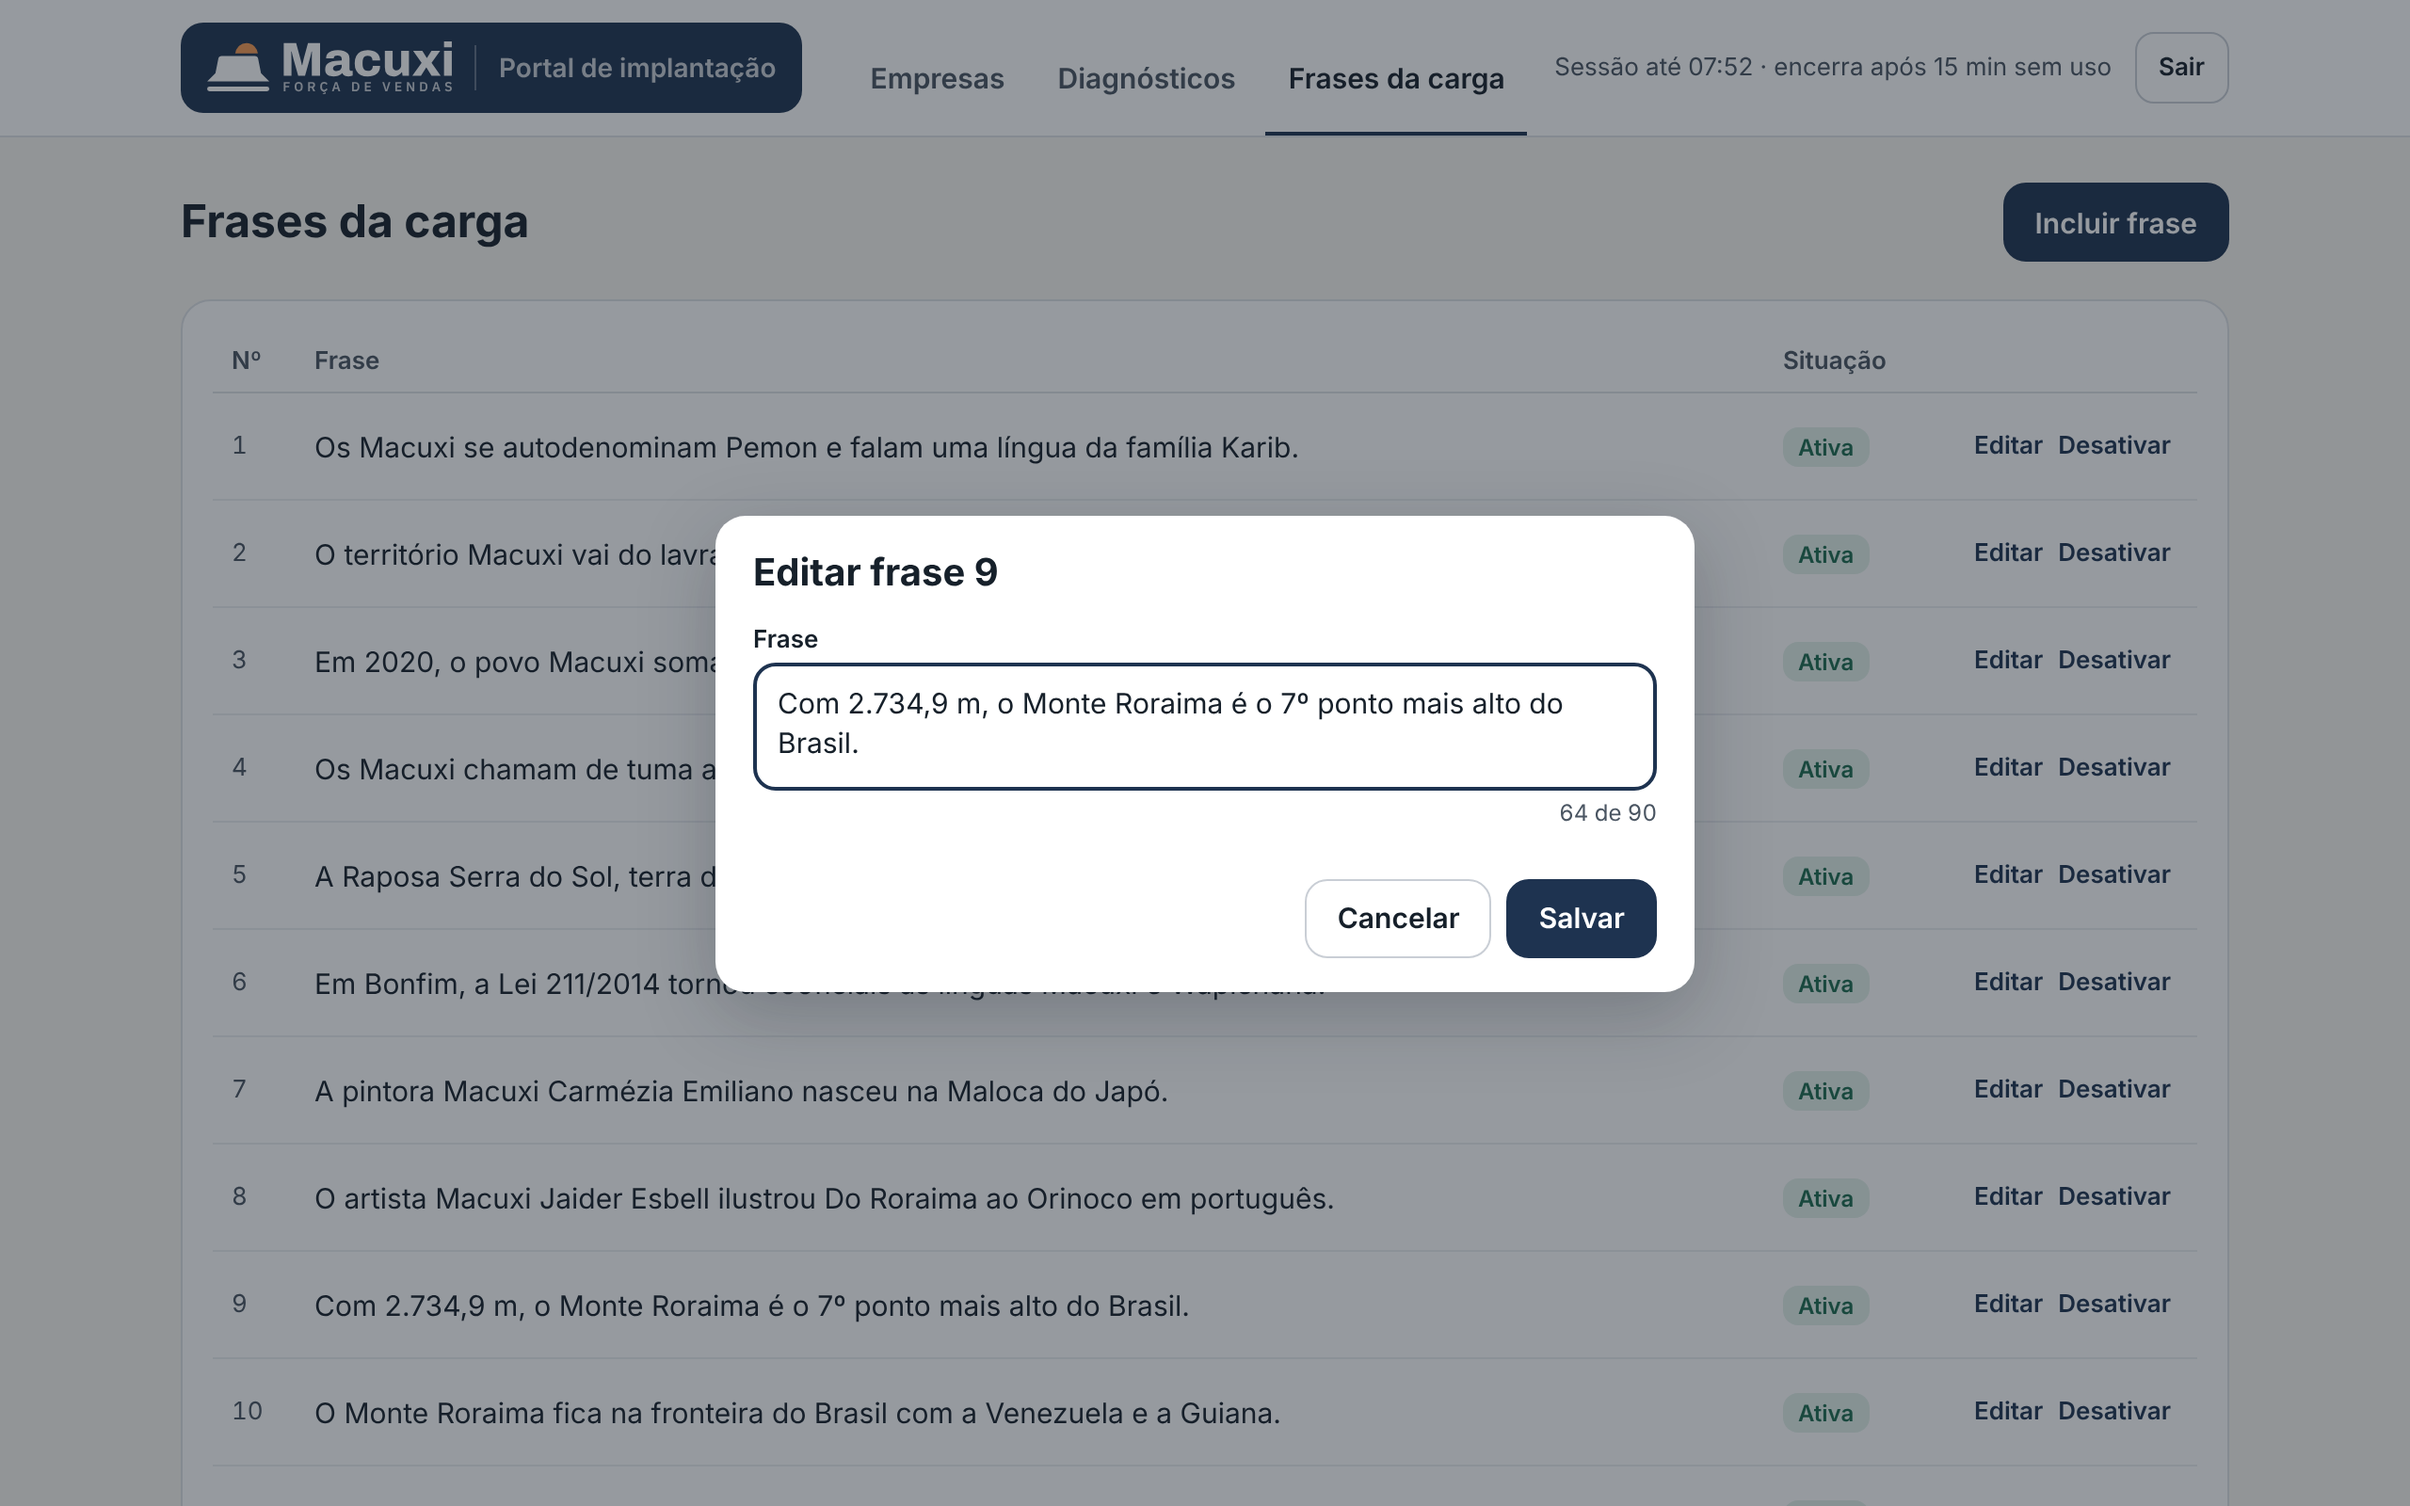
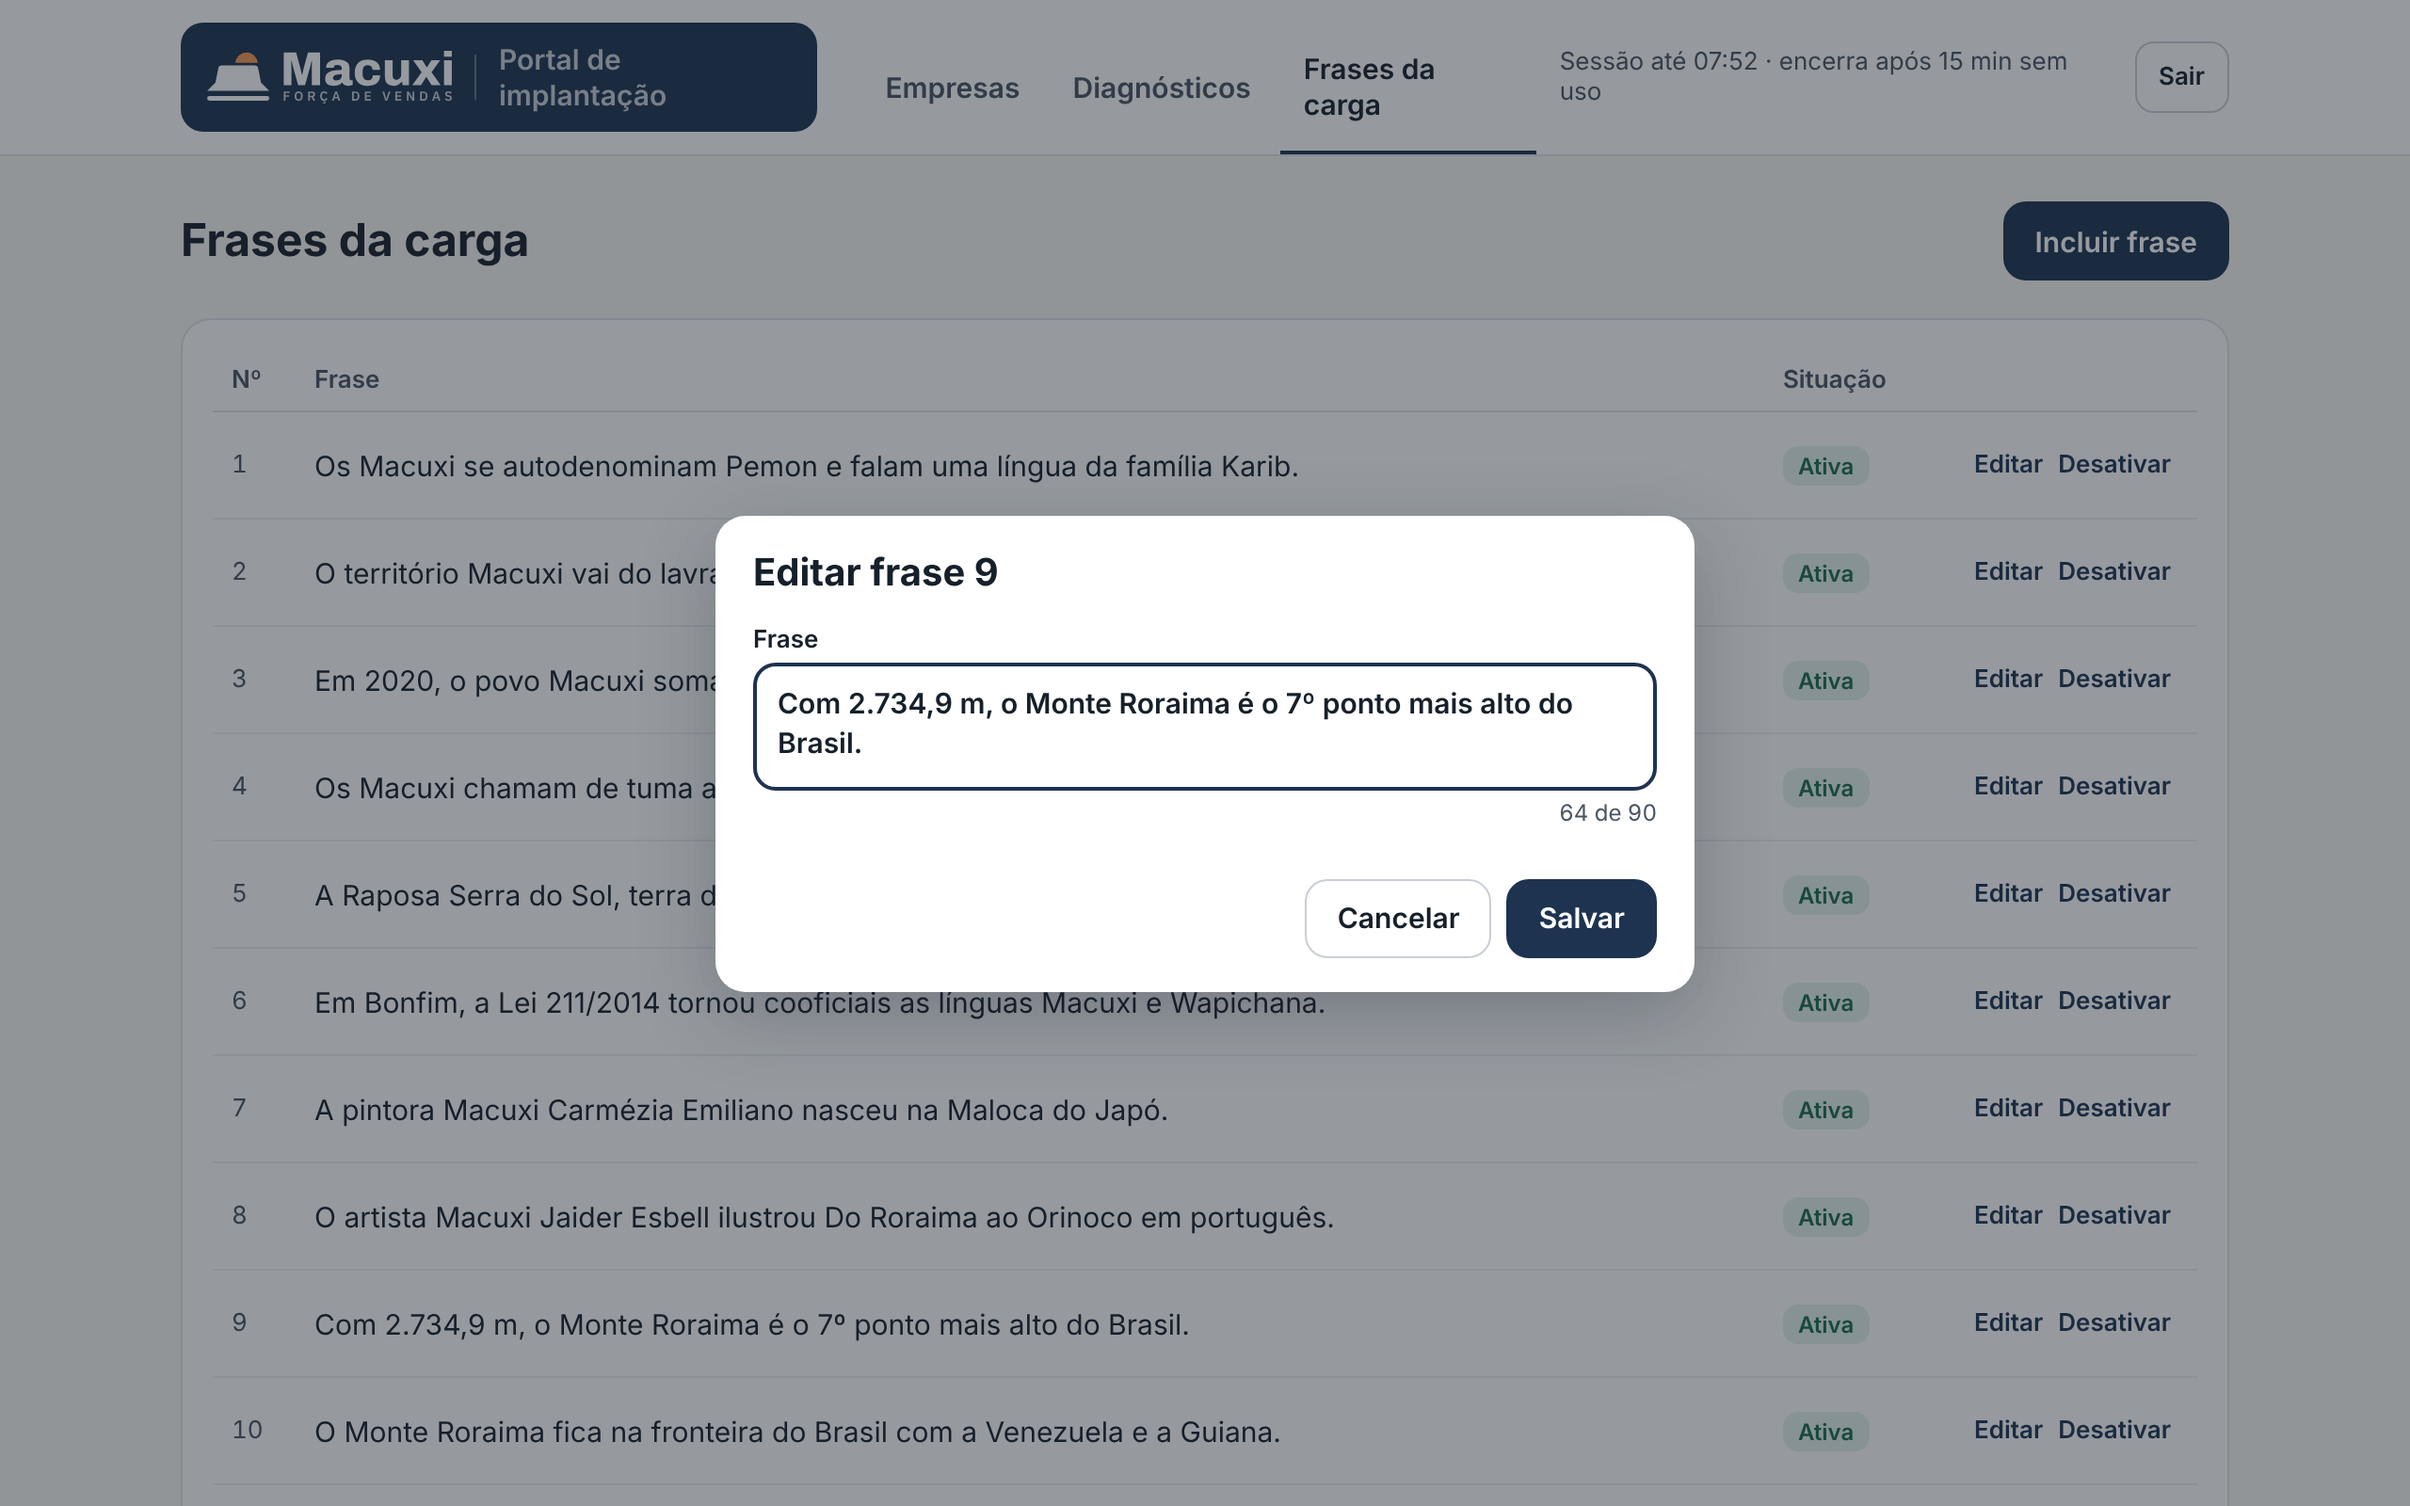
designer-ux — T-0181: simulação do portal com a pilha da fonte uma vez só e faixa em 15 (MC-0151, RD-1270)
Agente: designer-ux
Claude-Session: https://claude.ai/code/session_019xHEXpfo9hF3FwkT9jFWRk

diff --git a/docs/design/carga-aviso-frases/config-frases.html b/docs/design/carga-aviso-frases/config-frases.html
@@ -15,12 +15,12 @@ header { background: var(--surface); border-bottom: 1px solid var(--line); }
 .marca { display: flex; align-items: center; gap: 12px; background: var(--faixa); border-radius: 12px; padding: 10px 14px; }
 .marca img { width: 130px; display: block; }
 .marca .sep { width: 1px; height: 24px; background: rgba(201,206,213,.4); }
-.marca span { font-weight: 600; font-size: 14px; color: var(--faixaTexto); }
+.marca span { font-weight: 600; font-size: 15px; color: var(--faixaTexto); }
 nav { display: flex; gap: 4px; align-self: stretch; }
 nav a { display: flex; align-items: center; min-height: 44px; padding: 0 12px; margin-bottom: -12px; padding-bottom: 0; border-bottom: 2px solid transparent; font-weight: 600; color: var(--ink2); text-decoration: none; }
 nav a.ativo { border-color: var(--accent); color: var(--ink); }
 .dir { display: flex; align-items: center; gap: 12px; font-size: 13px; color: var(--ink2); }
-.btn { display: inline-flex; align-items: center; justify-content: center; gap: 6px; font: 600 15px system-ui, "Segoe UI", Roboto, -apple-system, sans-serif; height: 42px; border-radius: 12px; padding: 0 16px; border: 1px solid var(--field); background: var(--surface); color: var(--ink); white-space: nowrap; }
+.btn { display: inline-flex; align-items: center; justify-content: center; gap: 6px; font: inherit; font-weight: 600; font-size: 15px; height: 42px; border-radius: 12px; padding: 0 16px; border: 1px solid var(--field); background: var(--surface); color: var(--ink); white-space: nowrap; }
 .btn.sm { height: 38px; border-radius: 10px; padding: 0 12px; font-size: 13px; }
 .btn.prim { background: var(--accent); color: #fff; border-color: var(--accent); }
 .btn.link { border: 0; background: none; height: auto; padding: 0 4px; min-height: 44px; font-size: 13px; color: var(--accent); }
@@ -46,7 +46,7 @@ td.acoes { text-align: right; white-space: nowrap; width: 1%; }
 .dcorpo { padding: 16px 20px; display: flex; flex-direction: column; gap: 16px; }
 .dpe { padding: 12px 20px 18px; display: flex; justify-content: flex-end; gap: 8px; }
 label.rot { display: flex; flex-direction: column; gap: 4px; font-size: 13px; font-weight: 600; }
-textarea, select { font: 400 15px/21px system-ui, "Segoe UI", Roboto, -apple-system, sans-serif; color: var(--ink); border: 1px solid var(--field); border-radius: 12px; padding: 10px 12px; background: var(--surface); }
+textarea, select { font: inherit; font-size: 15px; line-height: 21px; color: var(--ink); border: 1px solid var(--field); border-radius: 12px; padding: 10px 12px; background: var(--surface); }
 textarea { height: 68px; resize: none; border: 2px solid var(--accent); padding: 9px 11px; }
 select { height: 44px; padding: 0 12px; }
 .ajuda { display: flex; justify-content: flex-end; font-size: 12px; font-weight: 400; color: var(--ink2); font-variant-numeric: tabular-nums; }

diff --git a/.coord/diario/designer-ux.md b/.coord/diario/designer-ux.md
@@ -124,3 +124,4 @@
 2026-11-15 — T-0181 (era T-0174) — ajuste R-20261115-080500: ícone lampada no kit mobile, MEDIDAS_FRASE_CARGA em entrada.ts (sem tokens de aviso), entrada-sync §2 com título 'Você sabia?' e aviso curto conforme a spec final 74f6160 (Olá→título 20, título→frase 6, aviso 13/18 textoClaro a 10 da barra; título em texto; lâmpada em preenchimento)
 2026-11-15 — T-0181 — kit3: aviso da carga nunca cortado (1 linha na escala 1,0, pode quebrar em 2 com fonte grande); `aviso.linhas` mantido porque o shell (linhasDoAviso) ainda lê; teste novo; T-0174 renomeado para T-0181
 2026-11-15 — T-0181 (#367) — pareceres: RD-1219 (saem os testes 2 a 4 de MEDIDAS_FRASE_CARGA), RD-1220 (sai a §5 'Na aprovação'; Fontes vira §5), RD-1221 e MC-0136 a MC-0139 (simulação na fonte do sistema, 14/20 e 16 no app, web 15, h1 24/700, selo 12, PNGs regerados); manter? do aviso: mantido (texto aprovado pelo dono do produto)
+2026-11-15 — T-0181 (#367) — MC-0151 (nome do módulo na faixa em 15) e RD-1270 (pilha da fonte só no body; botões e campos herdam); PNGs do portal regerados
